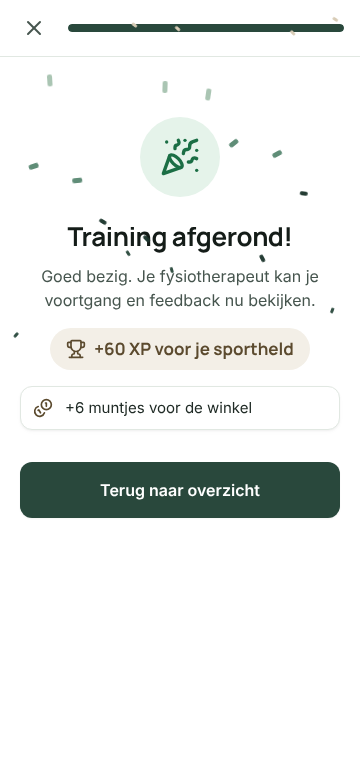
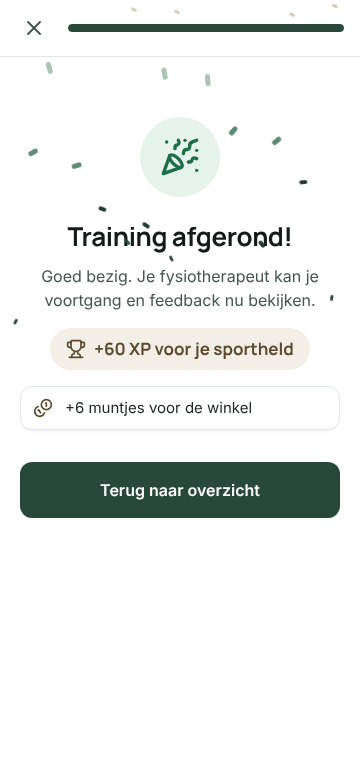
Phase medal also counts when the next phase is released without closing the previous one
Claude-Session: https://claude.ai/code/session_01LX8STJNNDwUxbGDdeQr5p6

diff --git a/server/src/routes/hero.ts b/server/src/routes/hero.ts
@@ -93,7 +93,10 @@ async function heroState(tx: Tx, patientId: string) {
          (SELECT count(*)::int FROM workout_sessions WHERE patient_id = $1 AND completed_at IS NOT NULL AND pain IS NOT NULL) AS with_pain,
          (SELECT count(*)::int FROM red_flag_reports WHERE patient_id = $1) AS red_flags,
          (SELECT count(DISTINCT date_trunc('week', recorded_at))::int FROM pain_map_entries WHERE patient_id = $1) AS checkin_weeks,
-         (SELECT count(*)::int FROM programs WHERE patient_id = $1 AND status = 'completed' AND phase_no IS NOT NULL) AS phases_done,
+         -- A phase counts as done when it was completed, or when the therapist released a later phase of the same series.
+         (SELECT count(*)::int FROM programs p WHERE p.patient_id = $1 AND p.phase_no IS NOT NULL AND p.is_template = false
+            AND (p.status = 'completed' OR EXISTS (SELECT 1 FROM programs q WHERE q.patient_id = $1 AND q.series_key = p.series_key
+                 AND q.phase_no > p.phase_no AND q.status IN ('active', 'completed')))) AS phases_done,
          (SELECT count(*)::int FROM strength_sets WHERE patient_id = $1) AS strength_sets,
          (SELECT count(*)::int FROM workout_sessions w JOIN programs p ON p.id = w.program_id
             WHERE w.patient_id = $1 AND w.completed_at IS NOT NULL AND p.module = 'mobiliteit') AS mobility_sessions`,

diff --git a/web/src/components/patient/PhaseCelebration.tsx b/web/src/components/patient/PhaseCelebration.tsx
@@ -33,6 +33,7 @@ export function PhaseCelebration() {
           <Trophy className="h-10 w-10 text-white" />
         </span>
         <p className="text-[16px] text-ink-800">{n.body}</p>
+        <p className="rounded-full bg-accent-soft px-3 py-1 text-[13.5px] font-semibold text-accent">{t('Medaille: Fase voltooid', 'Medal: Phase complete')}</p>
         <p className="text-[14px] text-ink-600">{t('Knap werk. Je fysiotherapeut heeft gezien dat je klaar bent voor de volgende stap.', 'Well done. Your physiotherapist has seen that you are ready for the next step.')}</p>
       </div>
     </Dialog>

diff --git a/server/test/phase-unlocked.test.ts b/server/test/phase-unlocked.test.ts
@@ -41,5 +41,8 @@ describe('a released rehabilitation phase', () => {
     expect(n[0].title).toBe('Hoofdstuk 1 voltooid!');
     expect(n[0].body).toContain('fase 2: Kracht opbouwen');
     expect(n[0].body).toContain('Traplopen zonder pijn');
+    // Phase 1 counts as done now that phase 2 is released: the "phase complete" medal.
+    const hero = (await (await login('patientA')).get('/patient/hero')).body;
+    expect(hero.totals.phasesCompleted).toBeGreaterThanOrEqual(1);
   });
 });

diff --git a/docs/ROADMAP.md b/docs/ROADMAP.md
@@ -4,7 +4,7 @@ Ideeën die zijn goedgekeurd voor later. Volgorde = voorstel; niets hiervan is a
 
 | # | Idee | Wat het doet | Afhankelijk van |
 |---|------|--------------|-----------------|
-| 3 | ✅ **Fase voltooid = boss-level** (gebouwd, nov 2026: feestscherm met nieuwe fase en doel; medaille nog niet) | Feestscherm als de therapeut de volgende fase vrijgeeft: "Hoofdstuk 1 voltooid", de nieuwe route en het nieuwe doel; medaille in de uitrusting. | — |
+| 3 | ✅ **Fase voltooid = boss-level** (gebouwd, nov 2026: feestscherm met nieuwe fase, doel en medaille) | Feestscherm als de therapeut de volgende fase vrijgeeft: "Hoofdstuk 1 voltooid", de nieuwe route en het nieuwe doel; medaille in de uitrusting. | — |
 | 6 | ✅ **Vroege waarschuwing** (gebouwd, nov 2026: pijnplek, en pijn na de training) | Automatisch signaal op het dashboard bij twee weken stijgende pijn (≥ 2 punten) op dezelfde plek, of dalende therapietrouw. Gebruikt de pijntrend per plek en de dagchecks. | — |
 | 7 | ✅ **Coachbericht bij programmawijziging** (gebouwd, nov 2026) | Korte boodschap van de therapeut bij een aanpassing ("Goed bezig, we gaan zwaarder!"), in de patiëntapp als bericht van je coach. | — |
 | 8 | **Eigen oefenvideo's** | Met de telefoon filmen en uploaden (zie `docs/FILMCHECKLIST.md`); alle oefeningen krijgen een echte video. | Render Starter + Disk |

diff --git a/docs/MASTERPLAN.md b/docs/MASTERPLAN.md
@@ -176,6 +176,8 @@ Status: `[x]` klaar en live · `[ ]` nog te doen.
 64. [x] **Fase voltooid = feestscherm** (roadmap #3). Zet de therapeut een volgende fase (2 of hoger)
     actief, dan krijgt de patiënt één keer "Hoofdstuk 1 voltooid!" met de nieuwe fase en het doel,
     en een knop naar die fase. Het bericht blijft onder Berichten. Alleen de therapeut geeft vrij.
+    De medaille "Fase voltooid" telt nu ook als de therapeut de volgende fase vrijgeeft zonder de
+    vorige eerst op "afgerond" te zetten (eerder kwam die medaille dan nooit).
 
 ## Vraagt jouw beslissing (Claude wacht hierop)
 - Render Starter (betaald) en een vaste schijf voor video's (`STORAGE_DIR`).
